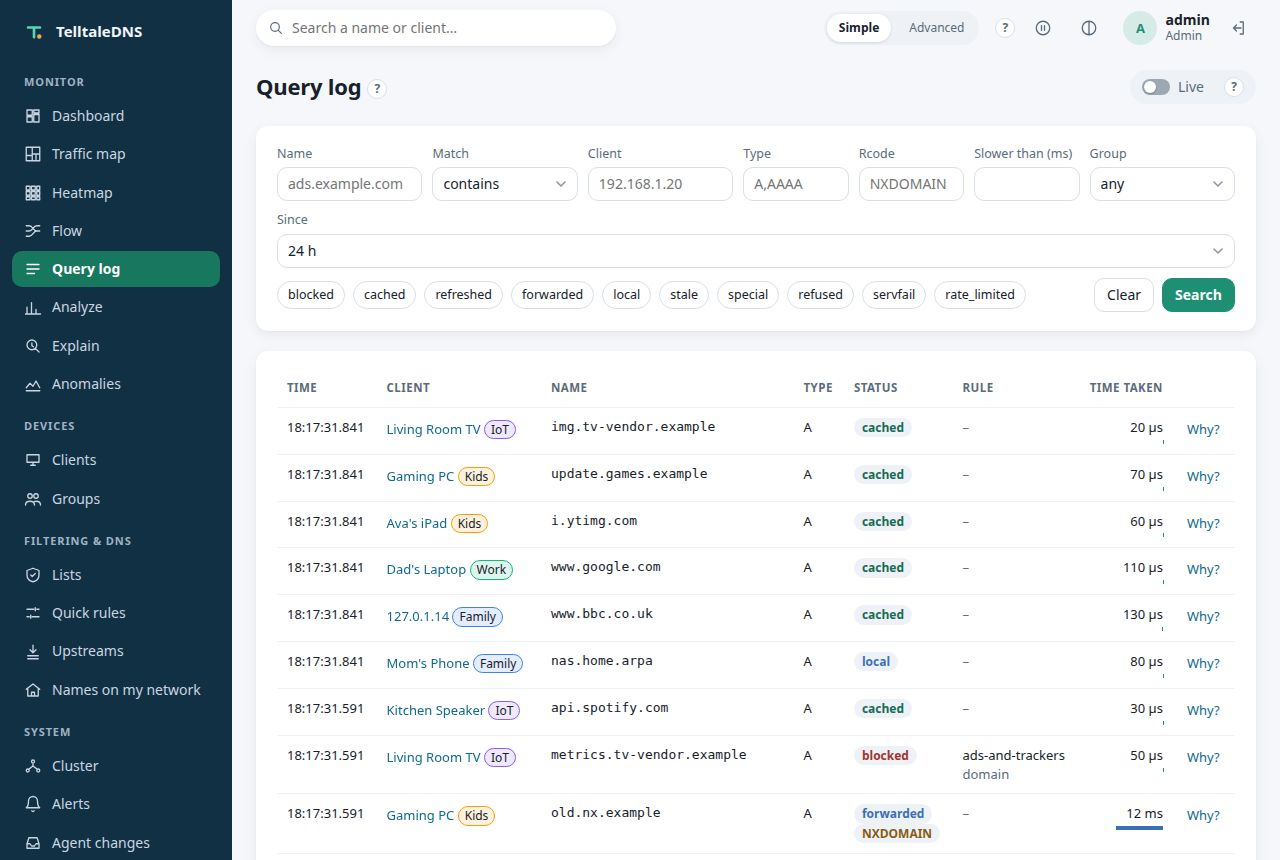
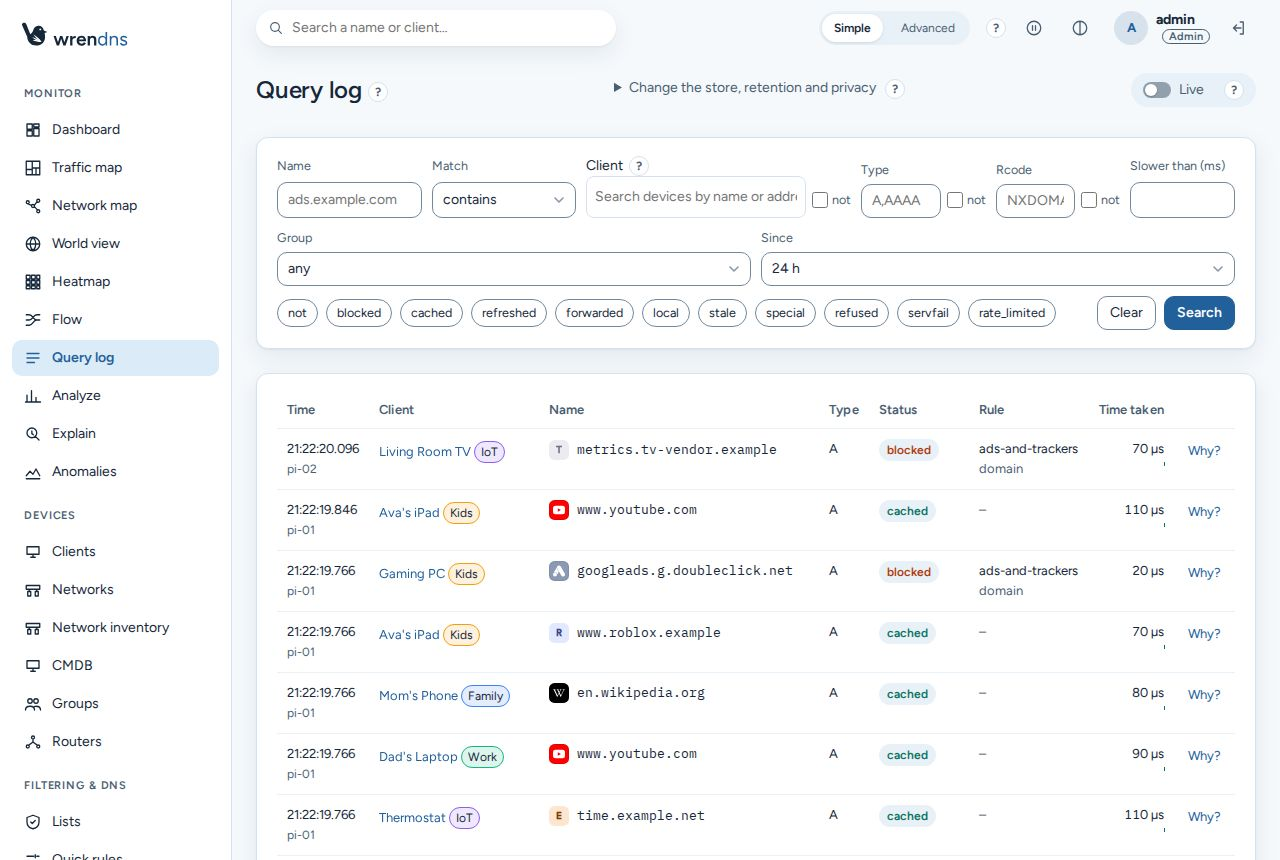
test(demo): the screenshot demo is a three-node cluster with a stub UniFi gateway; README shots in Day and Night [DOC-002, CLU-001, DSC-901, T33.4]
ui/tests/demo/run.sh now starts pi-01 (demo.toml creates the cluster),
joins pi-02 and k8s-a with a token, turns automatic failover on, reads a
made-up UniFi gateway (unifi.py: invented MACs, the demo's loopback
addresses, a throwaway key) and keeps the synthetic traffic going over
the three nodes while Playwright takes the pictures. One command, in the
script's header, makes them all.

README (docs/images/<page>-day.jpg and -night.jpg, 1920x1290 JPEG,
122 to 182 KB each): dashboard, network map, a device in the CMDB with
its config and UniFi records side by side, query log, and the cluster.
The site's dashboard, traffic, queries and why shots are refreshed from
the same run. Upstream's docs/images/dashboard-light.jpg and -dark.jpg
are removed (nothing else used them). The demo's local record moved off
192.168.1.0/24 to 10.20.0.10.

diff --git a/ui/tests/demo/shots.spec.ts b/ui/tests/demo/shots.spec.ts
@@ -1,15 +1,29 @@
-// REQ: DOC-002 — dashboard, traffic map, and query log screenshots for the README and the site,
-// taken on the made-up network of demo.toml after run.sh has sent it synthetic traffic. Not part
-// of the e2e suite.
-import { test, type Browser } from '@playwright/test';
+// SPDX-License-Identifier: AGPL-3.0-or-later
+// REQ: DOC-002 — the screenshots of the README and the site, taken on the made-up network of
+// demo.toml (a three-node cluster on loopback with a stub UniFi gateway) after run.sh has sent it
+// synthetic traffic. Not part of the e2e suite.
+//   README (docs/images/<page>-day.jpg and -night.jpg, 1280x860 at 1.5x): dashboard, map, cmdb,
+//     queries, cluster.
+//   Site (site/assets/shots/<page>-light.jpg and -dark.jpg, 1280x860): dashboard, traffic,
+//     queries, why.
+import { test, type Browser, type Page } from '@playwright/test';
 import { resolve } from 'node:path';
 
 const repo = resolve(import.meta.dirname, '../../..');
+// The brand's names for the two themes (brand/README.md): Day and Night.
+const brandName = { light: 'day', dark: 'night' } as const;
+
+async function readmeShot(page: Page, name: string, theme: 'light' | 'dark') {
+  await page.mouse.move(0, 0);
+  await page.screenshot({ path: `${repo}/docs/images/${name}-${brandName[theme]}.jpg`, type: 'jpeg', quality: 72 });
+}
 
 async function capture(browser: Browser, theme: 'light' | 'dark', width: number, height: number, scale: number) {
   const context = await browser.newContext({
     baseURL: 'http://127.0.0.1:28053',
     colorScheme: theme,
+    // Still pictures: the map and the charts settle at once instead of animating.
+    reducedMotion: 'reduce',
     viewport: { width, height },
     deviceScaleFactor: scale,
   });
@@ -42,8 +56,8 @@ async function capture(browser: Browser, theme: 'light' | 'dark', width: number,
 for (const theme of ['light', 'dark'] as const) {
   test(`dashboard ${theme}`, async ({ browser }) => {
     // The README: sharp on high-density screens.
-    const readme = await capture(browser, theme, 1280, 900, 1.5);
-    await readme.page.screenshot({ path: `${repo}/docs/images/dashboard-${theme}.jpg`, type: 'jpeg', quality: 82 });
+    const readme = await capture(browser, theme, 1280, 860, 1.5);
+    await readmeShot(readme.page, 'dashboard', theme);
     await readme.context.close();
     // The site: the same size as its other screenshots (2-shots.spec.ts).
     const site = await capture(browser, theme, 1280, 860, 1);
@@ -69,10 +83,54 @@ for (const theme of ['light', 'dark'] as const) {
     await site.page.goto('/#/queries');
     await site.page.waitForTimeout(1500);
     await site.page.screenshot({ path: `${repo}/site/assets/shots/queries-${theme}.jpg`, type: 'jpeg', quality: 80 });
+    const readme = await capture(browser, theme, 1280, 860, 1.5);
+    await readme.page.goto('/#/queries');
+    await readme.page.waitForTimeout(1500);
+    await readmeShot(readme.page, 'queries', theme);
+    await readme.context.close();
     await site.page.goto('/#/queries?status=blocked');
     await site.page.getByRole('button', { name: 'Why?' }).first().click();
     await site.page.waitForTimeout(600);
     await site.page.screenshot({ path: `${repo}/site/assets/shots/why-${theme}.jpg`, type: 'jpeg', quality: 80 });
     await site.context.close();
+  });
+
+  // REQ: OBS-901 — the network map: the three nodes, the upstreams and the device groups, coloured
+  // by health, after a few samples.
+  test(`network map ${theme}`, async ({ browser }) => {
+    const readme = await capture(browser, theme, 1280, 860, 1.5);
+    await readme.page.goto('/#/map');
+    await readme.page.getByRole('heading', { name: 'Network map' }).waitFor();
+    await readme.page.waitForTimeout(8000);
+    await readmeShot(readme.page, 'map', theme);
+    await readme.context.close();
+  });
+
+  // REQ: DSC-901, DSC-903 — one device in the CMDB with the records of each source that reported
+  // it (the configuration, the UniFi gateway, the queries), side by side.
+  test(`cmdb device ${theme}`, async ({ browser }) => {
+    const readme = await capture(browser, theme, 1280, 860, 1.5);
+    await readme.page.goto('/#/cmdb');
+    // One row in the list, so the device's card sits right under it.
+    await readme.page.getByLabel('Find a CI').fill('Ava');
+    await readme.page.getByRole('button', { name: "Ava's iPad" }).click();
+    const card = readme.page.getByTestId('cmdb-ci');
+    await card.waitFor();
+    await readme.page.waitForTimeout(800);
+    await card.evaluate((el) => el.scrollIntoView({ block: 'start' }));
+    await readme.page.evaluate(() => window.scrollBy(0, -16));
+    await readmeShot(readme.page, 'cmdb', theme);
+    await readme.context.close();
+  });
+
+  // REQ: CLU-001 — the Cluster page of the demo's three real nodes: pi-01 (the primary), pi-02 and
+  // k8s-a.
+  test(`cluster ${theme}`, async ({ browser }) => {
+    const readme = await capture(browser, theme, 1280, 860, 1.5);
+    await readme.page.goto('/#/cluster');
+    await readme.page.getByRole('heading', { name: 'Cluster' }).first().waitFor();
+    await readme.page.waitForTimeout(2500);
+    await readmeShot(readme.page, 'cluster', theme);
+    await readme.context.close();
   });
 }

diff --git a/ui/tests/demo/unifi.py b/ui/tests/demo/unifi.py
@@ -1,0 +1,115 @@
+#!/usr/bin/env python3
+# SPDX-License-Identifier: AGPL-3.0-or-later
+"""A stub UniFi Network API for the screenshot demo (run.sh). REQ: API-013, DSC-901, DOC-002.
+
+It answers the reads WrenDNS makes with an API key (`/proxy/network/api/s/default/...`): the
+connected clients (`stat/sta`), the known clients (`rest/user`), the networks (`rest/networkconf`)
+and the gateway's own devices (`stat/device`). Everything is made up: the devices are the demo's
+(demo.toml, on loopback addresses), their MACs are invented (a real maker's prefix, so the
+"what is this device" guess has something to go on, and random digits after it), and the key is
+the throwaway one run.sh writes. Loopback only. usage: unifi.py <port>
+"""
+import json
+import sys
+import time
+from http.server import BaseHTTPRequestHandler, ThreadingHTTPServer
+
+PORT = int(sys.argv[1]) if len(sys.argv) > 1 else 25480
+KEY = "demo-key-not-a-secret"
+NOW = int(time.time())
+DAY = 86_400
+
+SWITCH = "02:00:5e:10:00:01"
+AP = "02:00:5e:10:00:02"
+# (mac, ip, UniFi alias, host name, wired?, switch port or None, network, vlan, first seen days ago)
+CLIENTS = [
+    ("f0:18:98:4a:21:0c", "127.0.1.11", "Mom's Phone", "moms-iphone", False, None, "Family", 0, 410),
+    ("3c:22:fb:7e:90:14", "127.0.1.14", "", "macbook-guest", False, None, "Family", 0, 2),
+    ("28:18:78:5d:c2:31", "127.0.4.30", "Dad's Laptop", "dads-surface", True, 3, "Work", 40, 220),
+    ("f0:18:98:66:0b:a2", "127.0.2.10", "Ava's iPad", "avas-ipad", False, None, "Kids", 30, 180),
+    ("d8:bb:c1:2e:47:5f", "127.0.2.12", "Gaming PC", "gaming-pc", True, 5, "Kids", 30, 95),
+    ("b0:a7:37:19:e3:88", "127.0.3.20", "Living Room TV", "roku-living-room", True, 7, "IoT", 20, 300),
+    ("44:61:32:8a:5c:01", "127.0.3.21", "Thermostat", "ecobee-hall", False, None, "IoT", 20, 512),
+    ("5c:aa:fd:3b:17:e6", "127.0.3.22", "", "sonos-kitchen", False, None, "IoT", 20, 260),
+]
+NETWORKS = [
+    ("Family", 0, "127.0.1.1/24", "127.0.1.100", "127.0.1.200"),
+    ("Kids", 30, "127.0.2.1/24", "127.0.2.100", "127.0.2.200"),
+    ("IoT", 20, "127.0.3.1/24", "127.0.3.100", "127.0.3.200"),
+    ("Work", 40, "127.0.4.1/24", "127.0.4.100", "127.0.4.200"),
+]
+
+
+def sta():
+    rows = []
+    for mac, ip, alias, host, wired, port, net, vlan, days in CLIENTS:
+        r = {"mac": mac, "ip": ip, "hostname": host, "is_wired": wired, "network": net,
+             "first_seen": NOW - days * DAY, "last_seen": NOW - 5}
+        if alias:
+            r["name"] = alias
+        if vlan:
+            r["vlan"] = vlan
+        if wired:
+            r["sw_mac"], r["sw_port"] = SWITCH, port
+        else:
+            r["ap_mac"], r["essid"] = AP, "home-wifi"
+        rows.append(r)
+    return rows
+
+
+def users():
+    return [{"mac": mac, "name": alias or host, "hostname": host, "first_seen": NOW - days * DAY,
+             "last_seen": NOW - 5, "use_fixedip": wired, **({"fixed_ip": ip} if wired else {})}
+            for mac, ip, alias, host, wired, _p, _n, _v, days in CLIENTS]
+
+
+def networks():
+    out = []
+    for name, vlan, subnet, start, stop in NETWORKS:
+        n = {"name": name, "purpose": "corporate", "ip_subnet": subnet, "dhcpd_enabled": True,
+             "dhcpd_start": start, "dhcpd_stop": stop, "domain_name": "home.arpa"}
+        if vlan:
+            n["vlan_enabled"], n["vlan"] = True, vlan
+        out.append(n)
+    return out
+
+
+def devices():
+    return [
+        {"_id": "demo-switch-1", "mac": SWITCH, "name": "Office switch", "model": "USW-Lite-8-PoE",
+         "type": "usw", "serial": "DEMO0001", "ip": "127.0.9.2"},
+        {"_id": "demo-ap-1", "mac": AP, "name": "Hallway AP", "model": "U6-Lite", "type": "uap",
+         "serial": "DEMO0002", "ip": "127.0.9.3"},
+    ]
+
+
+ROUTES = {"stat/sta": sta, "rest/user": users, "rest/networkconf": networks, "stat/device": devices,
+          "stat/alluser": users}
+
+
+class Handler(BaseHTTPRequestHandler):
+    def do_GET(self):  # noqa: N802 (http.server's name)
+        if self.headers.get("x-api-key") != KEY:
+            self.send_error(401)
+            return
+        prefix = "/proxy/network/api/s/default/"
+        path = self.path.split("?")[0]
+        if path == "/proxy/network/v2/api/site/default/clients/history":
+            body = b"[]"  # nobody is offline on the demo network
+        else:
+            fn = ROUTES.get(path[len(prefix):]) if path.startswith(prefix) else None
+            if fn is None:
+                self.send_error(404)
+                return
+            body = json.dumps({"meta": {"rc": "ok"}, "data": fn()}).encode()
+        self.send_response(200)
+        self.send_header("content-type", "application/json")
+        self.send_header("content-length", str(len(body)))
+        self.end_headers()
+        self.wfile.write(body)
+
+    def log_message(self, *args):
+        pass
+
+
+ThreadingHTTPServer(("127.0.0.1", PORT), Handler).serve_forever()

diff --git a/ui/tests/demo/traffic.py b/ui/tests/demo/traffic.py
@@ -3,13 +3,20 @@
 names from its own loopback address, at a rate that rises and falls. 127.0.1.14 is left unnamed
 on purpose, to show how an unknown device looks. usage: traffic.py <seconds>"""
 import math
+import os
 import random
 import socket
 import struct
 import sys
 import time
 
-SERVER = ("127.0.0.1", 25353)
+# The cluster's DNS ports and how much of the traffic each gets (run.sh sets DEMO_SERVERS for the
+# three-node demo: "25353:6,25354:3,25355:1"); one node on 25353 when it is unset.
+SERVERS = []
+for part in os.environ.get("DEMO_SERVERS", "25353:1").split(","):
+    port, _, weight = part.partition(":")
+    SERVERS += [("127.0.0.1", int(port))] * int(weight or 1)
+SERVER = SERVERS[0]
 COMMON = ["www.google.com", "www.youtube.com", "i.ytimg.com", "www.apple.com", "github.com",
           "en.wikipedia.org", "api.spotify.com", "www.netflix.com", "fonts.gstatic.com",
           "cdn.jsdelivr.net", "www.bbc.co.uk", "news.ycombinator.com", "nas.home.arpa"]
@@ -63,7 +70,7 @@ while time.time() < end:
         k = int(n) + (1 if random.random() < n - int(n) else 0)
         for _ in range(k):
             name = random.choice(ads) if ads and random.random() < ad_share else random.choice(names)
-            socks[ip].sendto(query(name), SERVER)
+            socks[ip].sendto(query(name), random.choice(SERVERS))
             sent += 1
         try:
             while True:
